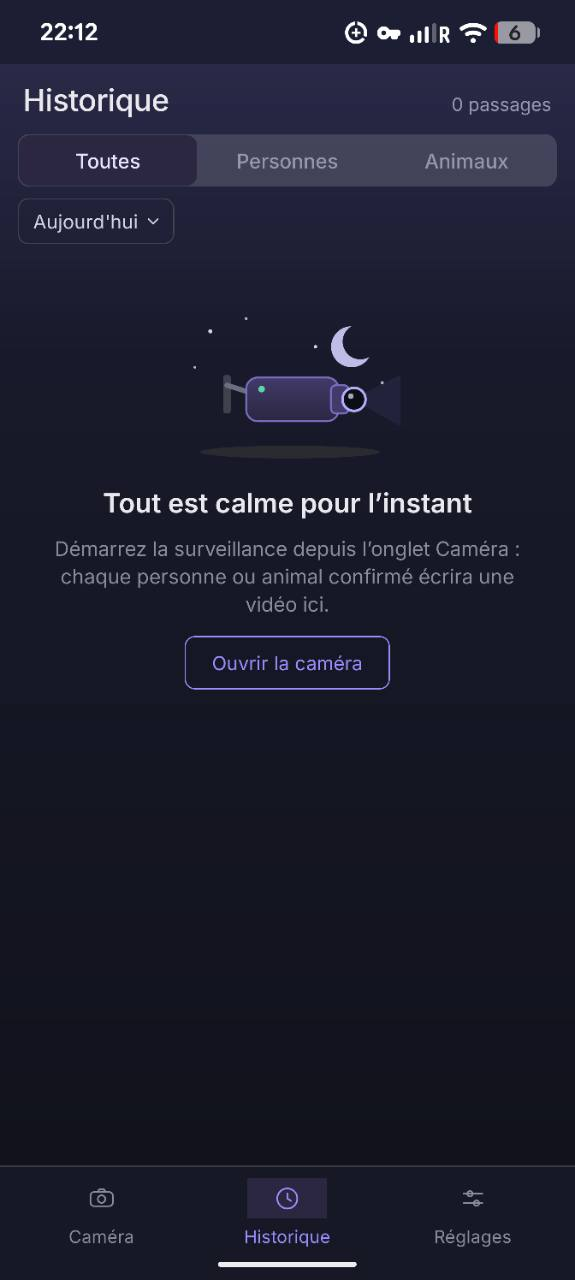
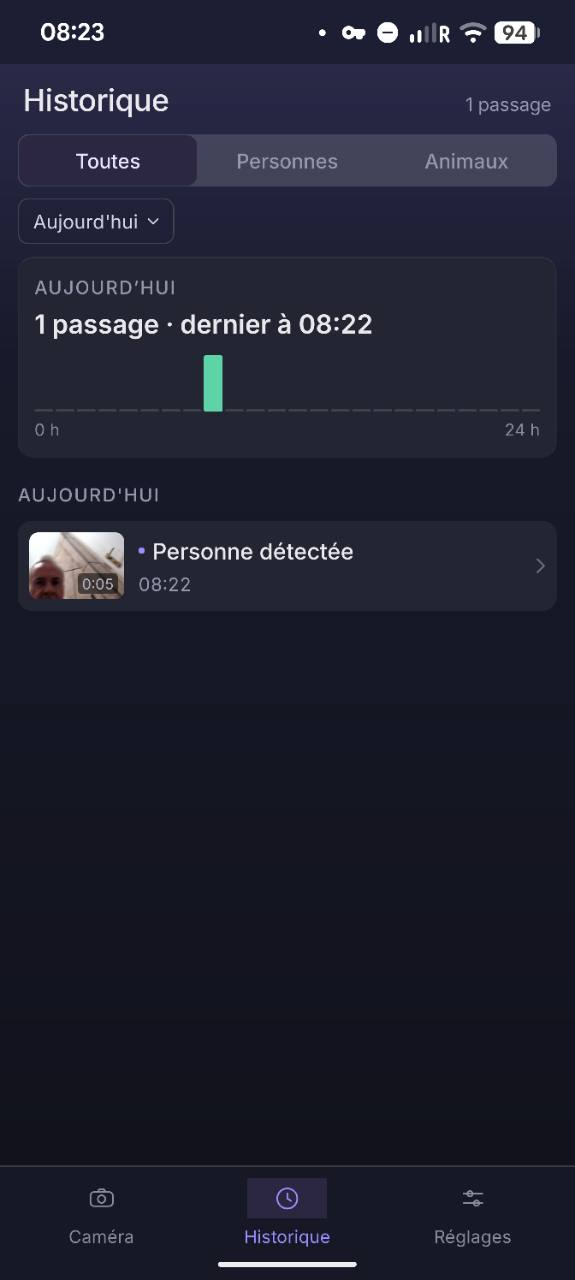
docs: refresh history and MCP screenshots across site and README

diff --git a/site/index.html b/site/index.html
@@ -235,8 +235,8 @@
             </div>
             <p>
               Découvrez les captures Android fournies par le projet :
-              surveillance inactive, historique vide et réglages. Ouvrez une
-              image pour la voir en grand.
+              surveillance inactive, historique avec un passage et réglages du
+              serveur MCP. Ouvrez une image pour la voir en grand.
             </p>
           </div>
           <div class="screenshots-grid">
@@ -276,16 +276,16 @@
                   height="1280"
                   loading="lazy"
                   decoding="async"
-                  alt="Écran Historique de NovaGuard : zéro passage, filtres Toutes, Personnes et Animaux, et message Tout est calme pour l’instant."
+                  alt="Écran Historique de NovaGuard : un passage Personne détectée à 08:22, vignette marquée 0:05, graphique de la journée et filtres Toutes, Personnes et Animaux."
                 />
               </a>
               <figcaption>
                 <span class="card-index">02 / HISTORIQUE</span>
                 <h3>Les passages, au même endroit.</h3>
                 <p>
-                  L’historique est encore vide ici. Les filtres permettent de
-                  retrouver les personnes et les animaux détectés une fois la
-                  surveillance lancée.
+                  Un passage « Personne détectée » apparaît à 08:22, avec une
+                  vignette marquée 0:05. Le graphique situe ce passage dans la
+                  journée et les filtres permettent de retrouver les événements.
                 </p>
               </figcaption>
             </figure>
@@ -301,23 +301,24 @@
                   height="1280"
                   loading="lazy"
                   decoding="async"
-                  alt="Écran Réglages de NovaGuard : caméra arrière, options de surveillance, sections Détection, Enregistrement, Stockage, Notifications, Avancé et Confidentialité."
+                  alt="Écran Réglages de NovaGuard : bloc Assistant IA (MCP), serveur éteint, bouton Voir les services MCP, puis options de surveillance et sections de configuration."
                 />
               </a>
               <figcaption>
                 <span class="card-index">03 / RÉGLAGES</span>
                 <h3>Une configuration à votre main.</h3>
                 <p>
-                  Caméra, détection, enregistrement, stockage et confidentialité
-                  sont regroupés dans les réglages.
+                  Le bloc « Assistant IA (MCP) » indique ici que le serveur est
+                  éteint. « Voir les services MCP » ouvre la liste des capacités
+                  ; les réglages de surveillance restent regroupés dessous.
                 </p>
               </figcaption>
             </figure>
           </div>
           <p class="screenshots-note">
-            Captures réelles, conservées sans retouche. Elles présentent
-            l’interface ; aucun passage détecté ni clip enregistré n’est visible
-            sur ces écrans.
+            Captures réelles, conservées sans retouche : l’historique montre un
+            passage détecté, la surveillance est inactive sur sa capture et le
+            serveur MCP est éteint dans les réglages.
           </p>
         </div>
       </section>

diff --git a/site/guide-mcp.html b/site/guide-mcp.html
@@ -104,6 +104,14 @@
           >
             <span class="card-index">02 / DANS LES RÉGLAGES</span>
             <h2 id="autoriser-title">Activez le serveur et la lecture.</h2>
+            <p>
+              En haut de <strong>Réglages</strong>, le bloc
+              <strong>Assistant IA (MCP)</strong> affiche l’état du serveur. La
+              <a href="./assets/screens/reglages.jpg">capture des réglages</a>
+              montre « Serveur éteint : aucun assistant ne peut se connecter ».
+              Le bouton <strong>Voir les services MCP</strong> permet de
+              consulter les capacités sans activer le serveur.
+            </p>
             <ol>
               <li>
                 Ouvrez <strong>Réglages → Avancé → Serveur MCP</strong>. Si le

diff --git a/docs/MARKETING_SITE.md b/docs/MARKETING_SITE.md
@@ -23,7 +23,7 @@ python3 -m http.server 8000 --directory site
 
 Ouvrir `http://localhost:8000`. Le site ne nécessite aucun backend. Le sélecteur des deux modes est un bouton de présentation ; il ne se connecte pas à une caméra. Sans JavaScript, les deux présentations restent lisibles. Les questions utilisent les éléments HTML natifs `details` et `summary`.
 
-Le logo et les schémas décoratifs sont créés pour cette présentation. Le visuel principal et la galerie utilisent les trois captures Android réelles fournies par l’utilisateur, conservées sans retouche. Les légendes précisent les états visibles : surveillance inactive, historique vide et réglages. L’ancien téléphone illustratif, ses surimpressions et sa scène SVG ont été retirés. Aucune police, image ou bibliothèque n’est chargée depuis un service tiers. Aucun formulaire, cookie d’analyse ou traceur n’est ajouté.
+Le logo et les schémas décoratifs sont créés pour cette présentation. Le visuel principal et la galerie utilisent les trois captures Android réelles fournies par l’utilisateur, conservées sans retouche. Les légendes précisent les états visibles : surveillance inactive, historique avec un passage et réglages avec le serveur MCP éteint. L’ancien téléphone illustratif, ses surimpressions et sa scène SVG ont été retirés. Aucune police, image ou bibliothèque n’est chargée depuis un service tiers. Aucun formulaire, cookie d’analyse ou traceur n’est ajouté.
 
 ## Analyse du projet et positionnement
 
@@ -110,7 +110,7 @@ python3 scripts/update-site-release.py --metadata /tmp/novaguard-release.json
 
 ## Captures Android et démonstration vidéo demandées
 
-Le point 1 est réalisé avec les trois captures fournies par l’utilisateur : `1000038182.jpg` (Surveillance), `1000038183.jpg` (Historique) et `1000038184.jpg` (Réglages). Elles sont publiées dans `site/assets/screens/`, sans retouche ni recadrage, avec leurs proportions natives (575 × 1280). Le visuel principal montre la vraie capture Surveillance ; une galerie présente les trois écrans avec des liens directs vers les fichiers en taille réelle, utilisables au clavier et sans JavaScript. Les captures ne montrent ni détection active ni clip enregistré : les légendes le disent explicitement. Aucun résultat fictif n’est ajouté. Le point 2 reste en attente des clips source pour la démonstration réelle. La provenance et le brief vidéo se trouvent dans `docs/SITE_MEDIA.md`.
+Le point 1 est réalisé avec les trois captures fournies par l’utilisateur : `1000038182.jpg` (Surveillance), `1000038232.jpg` (Historique) et `1000038231.jpg` (Réglages), actualisées le 16 octobre 2026. Elles sont publiées dans `site/assets/screens/`, sans retouche ni recadrage, avec leurs proportions natives (575 × 1280). Le visuel principal montre la vraie capture Surveillance ; une galerie présente les trois écrans avec des liens directs vers les fichiers en taille réelle, utilisables au clavier et sans JavaScript. L’historique montre un passage « Personne détectée » à 08:22 avec une vignette marquée 0:05 et un graphique de la journée. La capture Réglages montre le bloc « Assistant IA (MCP) », le serveur éteint et l’accès aux services. Les légendes distinguent ces états de la surveillance inactive affichée sur la capture Surveillance, prise séparément. Aucun résultat fictif n’est ajouté. Le point 2 reste en attente des clips source pour la démonstration réelle. La provenance et le brief vidéo se trouvent dans `docs/SITE_MEDIA.md`.
 
 ### Vérification de la mise à jour guide/installation
 
@@ -124,8 +124,16 @@ Le point média 1 est désormais intégré avec les captures reçues. Le point 2
 
 ### Vérification des captures réelles
 
-Les trois JPEG publiés ont été comparés octet par octet aux pièces jointes : ils sont identiques, de dimensions 575 × 1280 et totalisent 123 049 octets. Leurs empreintes sont consignées dans `docs/SITE_MEDIA.md`.
+Les trois JPEG publiés ont été comparés octet par octet aux pièces jointes : ils sont identiques, de dimensions 575 × 1280 et totalisent 116 519 octets. Leurs empreintes sont consignées dans `docs/SITE_MEDIA.md`.
 
 Le visuel principal et la galerie ont été parcourus sous `/novaguard/` à 1440, 1024, 768, 700, 390 et 320 px : proportions d’image conservées, aucun débordement horizontal et trois liens fonctionnels vers les JPEG en taille réelle. L’ouverture au clavier et l’ouverture sans JavaScript réussissent. Le parcours du guide MCP, la copie de configuration, les modes et l’installation ont également été rejoués avec succès. Les pages et leurs médias ne produisent ni erreur JavaScript ni échec HTTP local.
 
 `npm run typecheck`, `npm run lint` (0 erreur, 0 avertissement), `npm test -- --ci --runInBand` (89 suites, 956 tests), le contrôle de formatage, les liens/ancres/ARIA et `git diff --check` passent. Le workflow Pages vérifie désormais la présence des trois JPEG au lieu de la scène illustrative retirée. Cette intégration ne vérifie pas le fonctionnement d’une caméra réelle ; elle présente fidèlement les captures fournies.
+
+### Actualisation du 16 octobre 2026
+
+Les nouvelles captures Historique (`1000038232.jpg`) et Réglages (`1000038231.jpg`) remplacent les états précédents. Elles sont copiées sans modification ; les deux fichiers publiés ont été comparés octet par octet aux pièces jointes, et leurs empreintes SHA-256 et tailles sont actualisées dans `docs/SITE_MEDIA.md`. La capture Surveillance reste inchangée. Les trois fichiers totalisent maintenant 116 519 octets.
+
+Le README présente les trois écrans avec des liens vers les fichiers en taille réelle. Les légendes, textes alternatifs et descriptions du site indiquent le passage à 08:22, la vignette marquée 0:05 et le serveur MCP éteint. Le guide explique le nouveau bloc « Assistant IA (MCP) » et son bouton de consultation ; l’absence d’activation par ce bouton a été vérifiée dans `SetupScreen.tsx` (`openInfo('mcp')`).
+
+Vérifications fraîches : typecheck et lint sans erreur ni avertissement ; 90 suites et 966 tests Jest réussis ; formatage et `git diff --check` valides. Les parcours Chromium de la galerie passent sur six largeurs (320 à 1440 px), avec conservation des proportions et ouverture des JPEG au clavier et sans JavaScript. Le guide, les téléchargements, le presse-papiers et les liens/ancres/ARIA des deux pages ont été contrôlés. Les liens d’images du README pointent vers les fichiers présents dans le dépôt.

diff --git a/docs/SITE_MEDIA.md b/docs/SITE_MEDIA.md
@@ -2,25 +2,25 @@
 
 ## Captures reçues et intégrées — point 1 terminé
 
-L’utilisateur a fourni les trois écrans de l’application. Les JPEG d’origine sont conservés à l’identique : aucune retouche, aucun recadrage ni ajout d’un état de surveillance fictif. Chaque fichier mesure 575 × 1280 pixels. Le modèle de téléphone et la version de l’application ne sont pas précisés par les fichiers fournis.
+L’utilisateur a fourni les trois écrans de l’application. Le 16 octobre 2026, les captures Historique et Réglages ont été remplacées par les nouvelles pièces jointes ; la capture Surveillance est conservée. Les JPEG d’origine sont conservés à l’identique : aucune retouche, aucun recadrage ni ajout d’un état de surveillance fictif. Chaque fichier mesure 575 × 1280 pixels. Le modèle de téléphone et la version de l’application ne sont pas précisés par les fichiers fournis.
 
 | Source fournie | Fichier publié | État visible | Taille |
 | --- | --- | --- | --- |
 | `1000038182.jpg` | `site/assets/screens/surveillance.jpg` | Surveillance inactive, caméra en veille, zéro détection du jour | 34 964 octets |
-| `1000038183.jpg` | `site/assets/screens/historique.jpg` | Historique vide, zéro passage, filtres de consultation | 31 959 octets |
-| `1000038184.jpg` | `site/assets/screens/reglages.jpg` | Réglages de surveillance et sections de configuration | 56 126 octets |
+| `1000038232.jpg` | `site/assets/screens/historique.jpg` | Un passage « Personne détectée » à 08:22, vignette marquée 0:05, graphique de la journée | 29 960 octets |
+| `1000038231.jpg` | `site/assets/screens/reglages.jpg` | Bloc « Assistant IA (MCP) », serveur éteint et bouton « Voir les services MCP » | 51 595 octets |
 
 Empreintes SHA-256 des fichiers d’origine et publiés, identiques :
 
 ```text
 5a1ebe2a6edfc58c21bb62990c5805620a40373ac2affdf3c8f3d93abd0ec21b  surveillance.jpg
-9c9f73365244cff7473761cffb2d485c92ec411932d1f72e6462d00ab030239b  historique.jpg
-cc6d896411242cf3d509a3754855a56a638739a46edb488d52b0e44b74b3ada0  reglages.jpg
+be8b411e38d20eccf3bf88c5bc533f59cd7aa2460f4187f4b60908fe27fa6076  historique.jpg
+58f79c7975d87297819e5f57986272f1a63699aca568a4ec5cee37e19acf2491  reglages.jpg
 ```
 
-La capture Surveillance remplace l’illustration du visuel principal. La galerie `#apercu` montre les trois fichiers entiers, avec des textes alternatifs et des légendes adaptés à leur contenu réel. Chaque capture est un lien vers le JPEG en taille réelle : aucun script n’est requis pour l’agrandir. Les captures de la galerie se chargent à la demande (`loading="lazy"`) ; la capture principale est prioritaire. Le total des trois sources est de 123 049 octets, et l’image Surveillance utilisée deux fois partage la même URL pour bénéficier du cache du navigateur.
+La capture Surveillance remplace l’illustration du visuel principal. La galerie `#apercu` montre les trois fichiers entiers, avec des textes alternatifs et des légendes adaptés à leur contenu réel. Chaque capture est un lien vers le JPEG en taille réelle : aucun script n’est requis pour l’agrandir. Les captures de la galerie se chargent à la demande (`loading="lazy"`) ; la capture principale est prioritaire. Le total des trois sources est de 116 519 octets, et l’image Surveillance utilisée deux fois partage la même URL pour bénéficier du cache du navigateur.
 
-Ces images présentent l’interface, sans prouver une détection ou un enregistrement sur l’appareil. Elles ne servent pas à fabriquer un résultat ni une réponse d’agent.
+L’historique présente un événement déclaré par l’application, avec une vignette marquée 0:05 ; la capture seule ne vérifie pas la lecture du fichier vidéo. L’écran Réglages montre le serveur MCP éteint, sans connexion d’agent. Aucun événement, résultat de lecture ou échange d’agent n’est ajouté aux captures.
 
 ## Démonstration de 20 à 35 secondes
 

diff --git a/README.md b/README.md
@@ -6,6 +6,18 @@ Caméra de surveillance intelligente, locale et open source. NovaGuard transform
 [![CI](https://github.com/devdownin/novaguard/actions/workflows/ci.yml/badge.svg)](https://github.com/devdownin/novaguard/actions/workflows/ci.yml)
 [![License: GPL v3](https://img.shields.io/badge/License-GPLv3-blue.svg)](LICENSE)
 
+## Aperçu de l’application
+
+Captures Android réelles, conservées sans retouche. Cliquer sur une image l’ouvre en taille réelle.
+
+| Surveillance | Historique | Réglages et assistant IA |
+| :---: | :---: | :---: |
+| <a href="site/assets/screens/surveillance.jpg"><img src="site/assets/screens/surveillance.jpg" width="180" alt="Surveillance inactive, caméra en veille et bouton de démarrage"></a> | <a href="site/assets/screens/historique.jpg"><img src="site/assets/screens/historique.jpg" width="180" alt="Historique avec un passage Personne détectée à 08:22 et une vignette marquée 0:05"></a> | <a href="site/assets/screens/reglages.jpg"><img src="site/assets/screens/reglages.jpg" width="180" alt="Réglages avec le bloc Assistant IA MCP, le serveur éteint et le bouton Voir les services MCP"></a> |
+
+L’historique montre un passage et son emplacement dans la journée. Le bloc **Assistant IA (MCP)** des réglages indique ici que le serveur est éteint ; **Voir les services MCP** ouvre la liste des capacités sans l’activer. La capture Surveillance, prise séparément, montre la caméra en veille.
+
+[Découvrir l’application sur le site](https://devdownin.github.io/novaguard/#apercu) · [Connecter un agent avec le guide MCP](https://devdownin.github.io/novaguard/guide-mcp.html)
+
 ## Fonctionnalités
 
 - **Surveillance** — flux caméra en direct, indicateur d'état, démarrage/arrêt en un geste, dernières statistiques (dernière détection, détections du jour, espace disponible).
